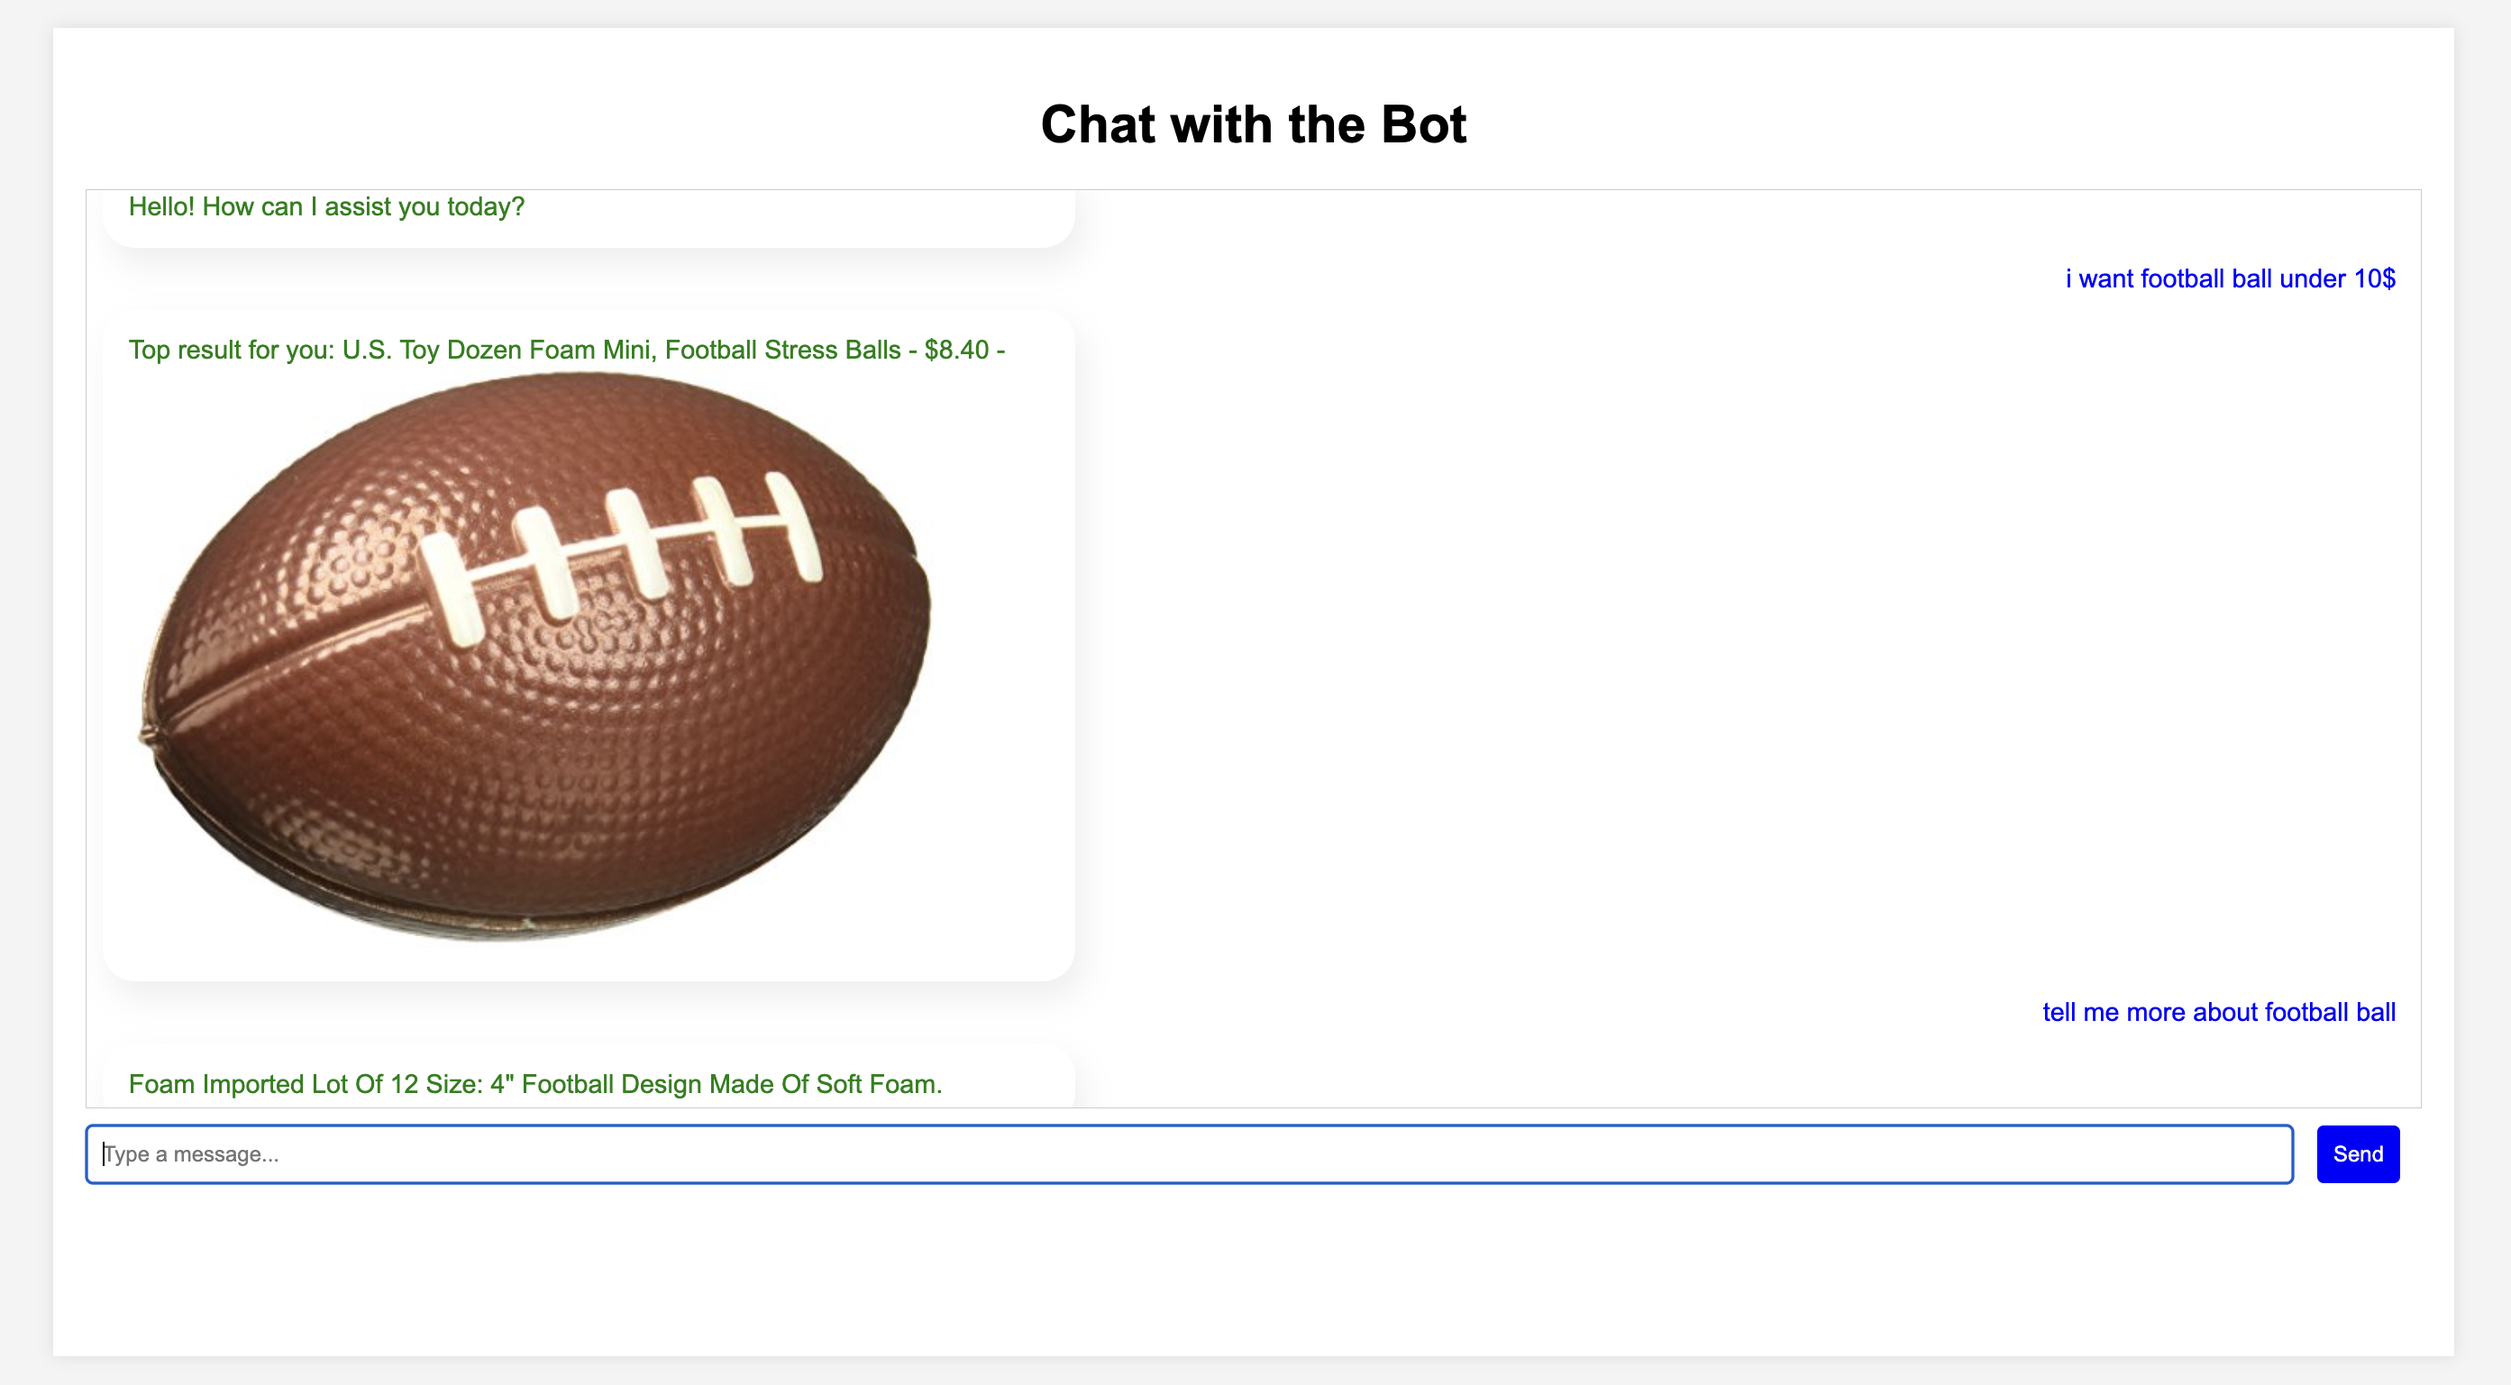
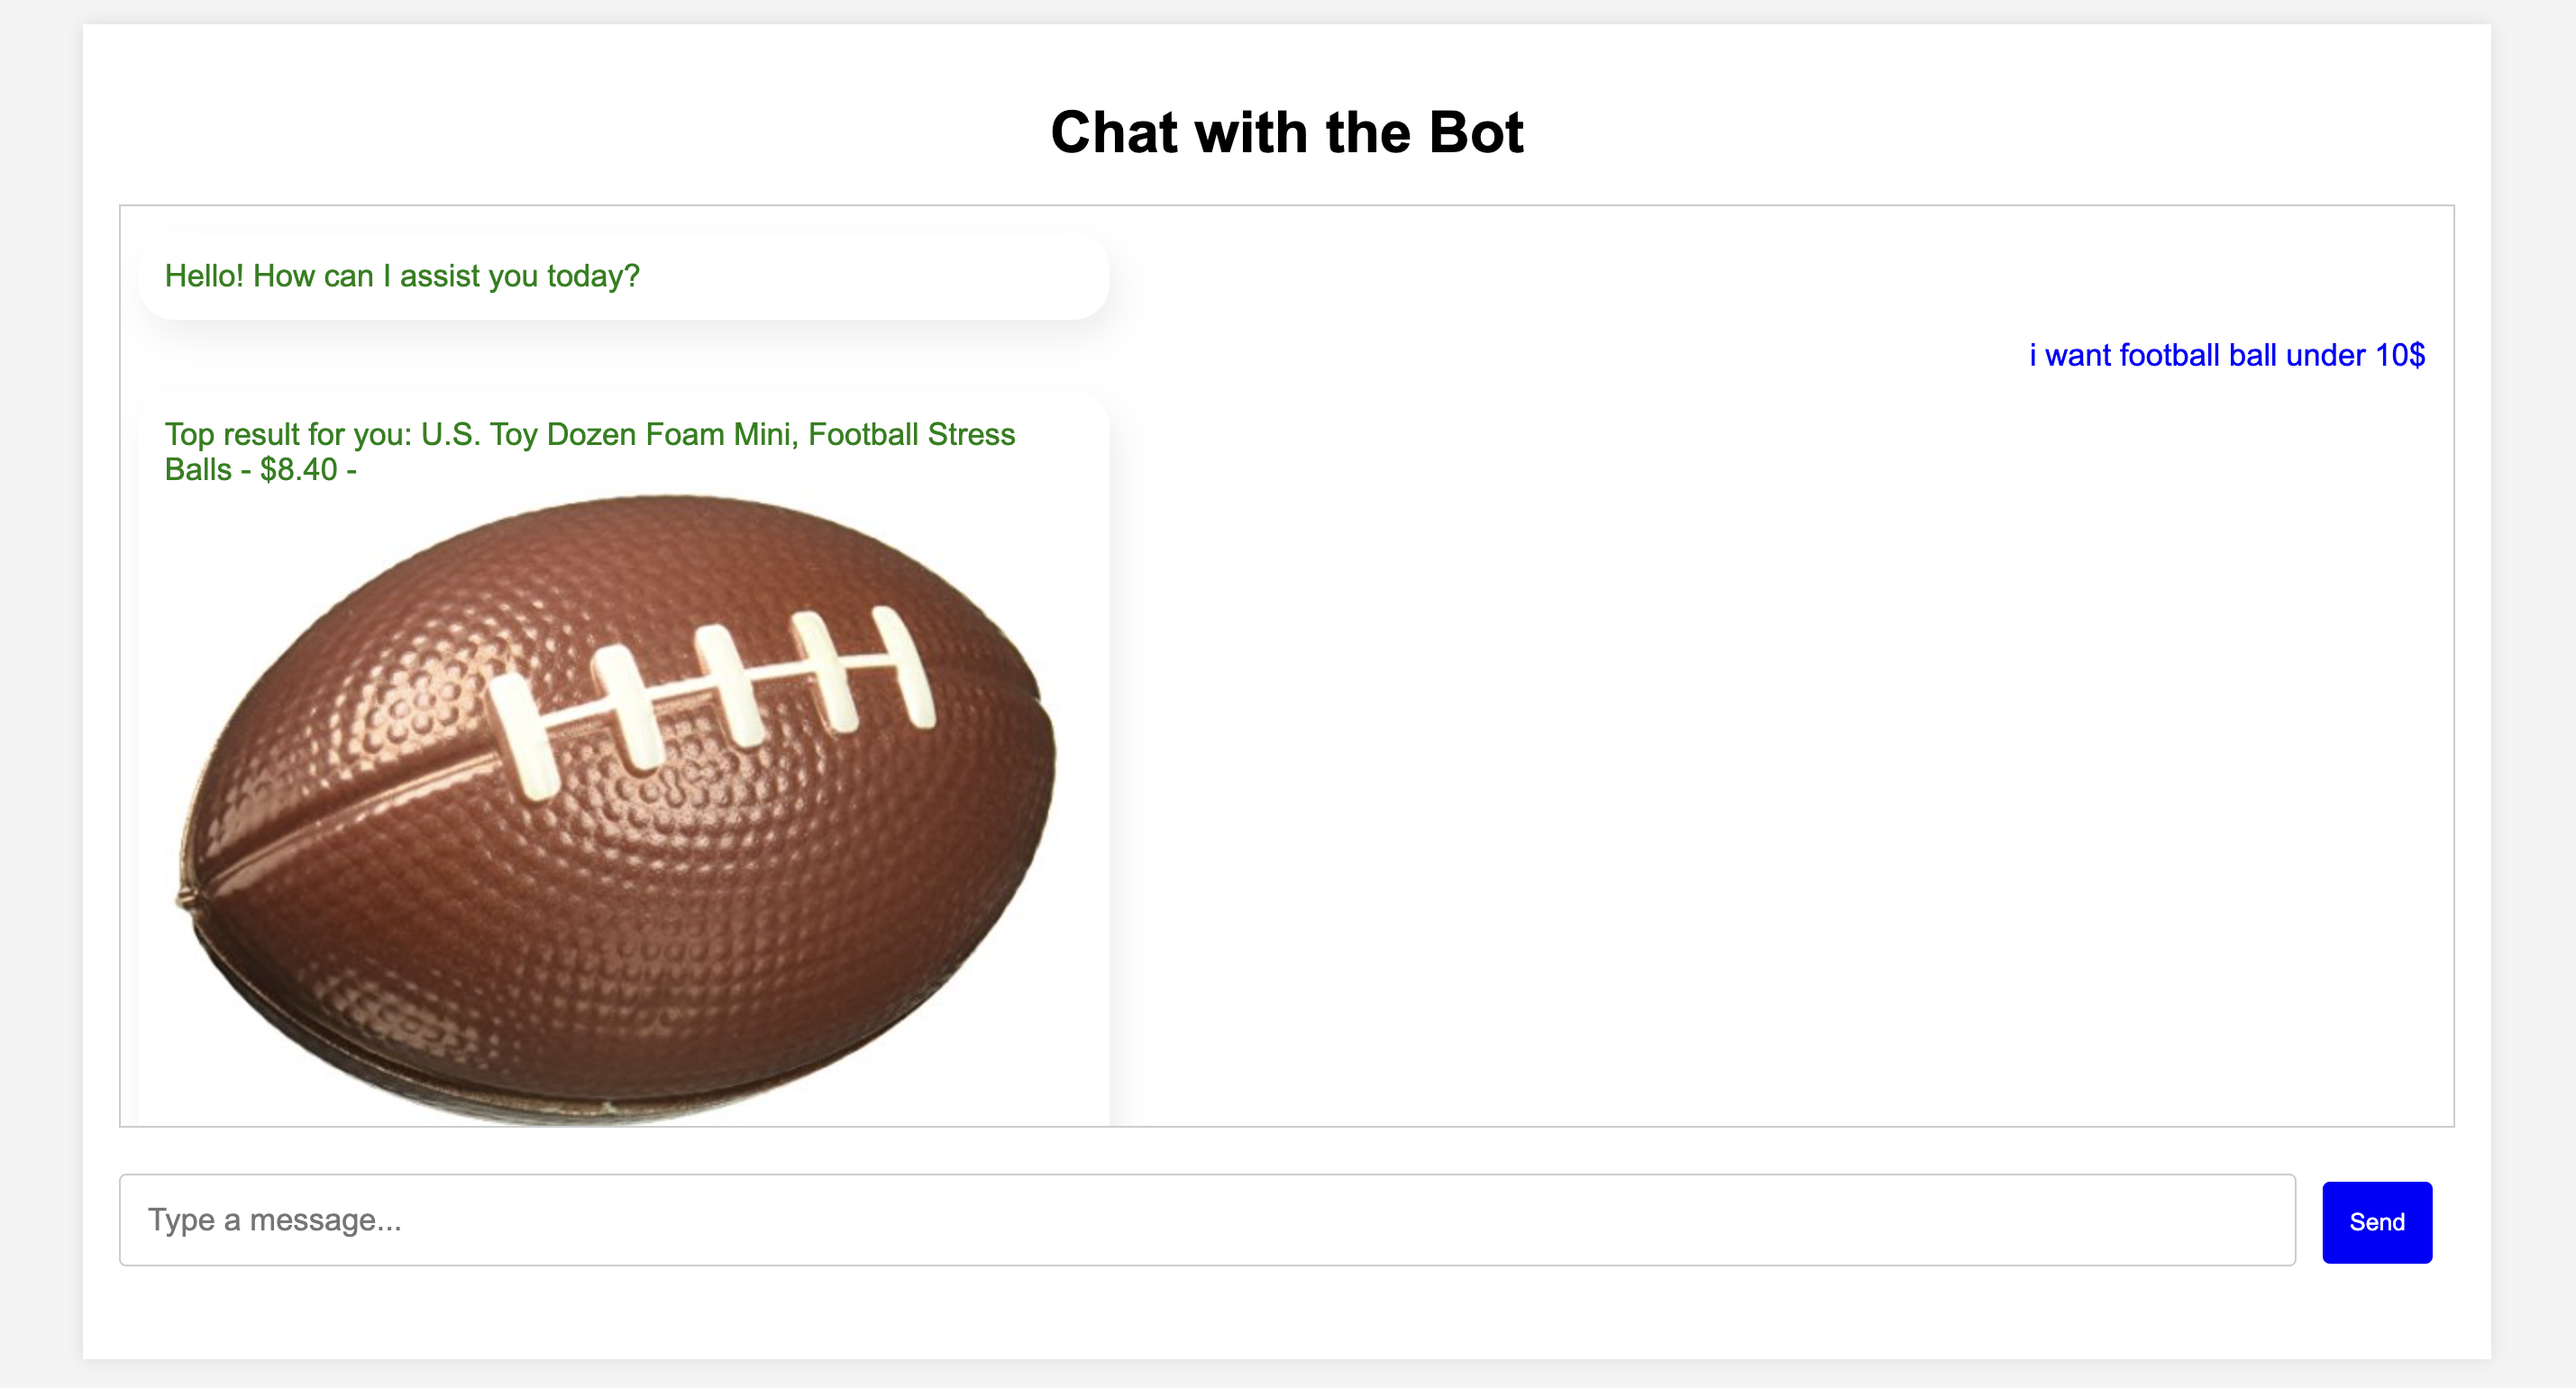
feat: design

diff --git a/static/style.css b/static/style.css
@@ -49,15 +49,19 @@ h1 {
 }
 
 input[type="text"] {
-    width: calc(100% - 100px);
-    padding: 10px;
+    width: calc(100% - 120px);
+    padding: 15px;
     margin-right: 10px;
     border: 1px solid #ccc;
+    font-size: 1.2vw;
     border-radius: 4px;
+    margin-top: 2vh;
 }
 
 button {
-    padding: 10px;
+    padding: 15px;
+    padding-left: 15px;
+    padding-right: 15px;
     border: none;
     background-color: blue;
     color: white;

diff --git a/README.md b/README.md
@@ -4,6 +4,7 @@
 
 ## Preview
 ![preview](./aipreview.png)
+![preview](./aipreview2.png)
 
 ## Libraries used
 - numpy
@@ -21,6 +22,10 @@
 sudo apt-get install python3-pip
 sudo apt-get install python3-flask
 pip install scikit-learn
+pip install spacy
+pip install ntlk
+pip install pandas
+pip install numpy
 pip install torch
 pip install transformers
 flask run
